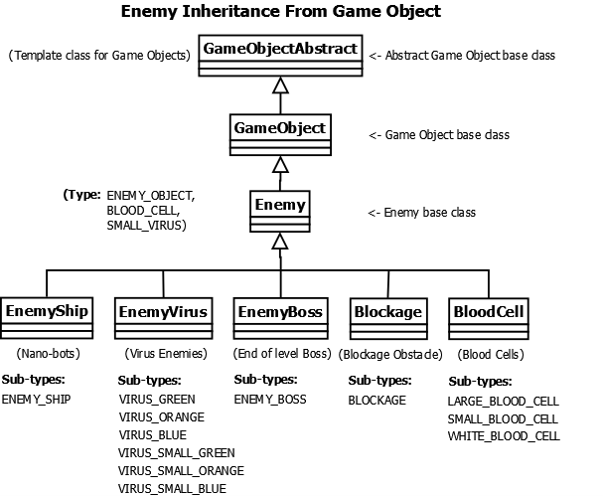
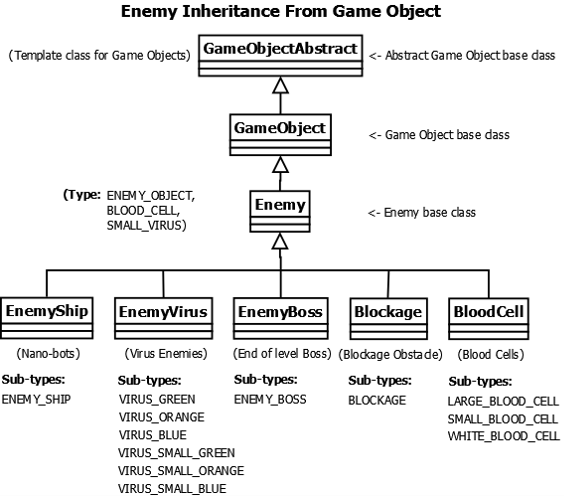
docs: update images and class diagrams

diff --git a/docs/system-design/game-objects/enemy/blood-cells.md b/docs/system-design/game-objects/enemy/blood-cells.md
@@ -7,7 +7,7 @@
 |        BloodCell          |
 ├---------------------------┤
 | -mMovement: int           | 
-├----------------------------
+├---------------------------┤
 | +Move() : virtual void    | - Up & down movement, random speed set in spawnBloodCell
 | +moveStalker() : virtual  | - Move White Blood Cells to small Enemy Virus to tidy up
 | +render() : virutal void  | - Render from Texture map using ID, rotation set in move

diff --git a/docs/system-design/game-objects/weapon/weapon.md b/docs/system-design/game-objects/weapon/weapon.md
@@ -15,7 +15,7 @@
 └-------------------------------┘
 ```
 
-![Weapon Inheritance Tree](../../../images/weapon/weapon_inheritance.png)
+![Weapon Inheritance Tree](../../../images/diagrams/inheritance_weapons.png)
 
     Weapon Inheritance Tree
 
